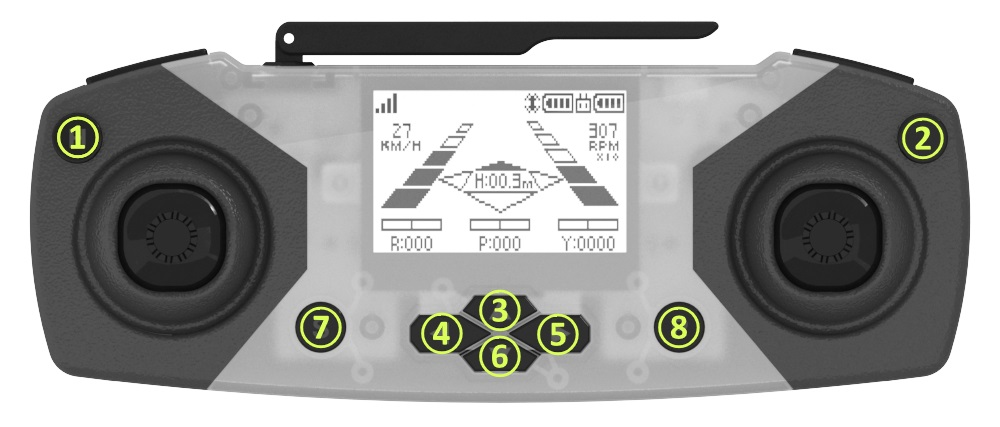
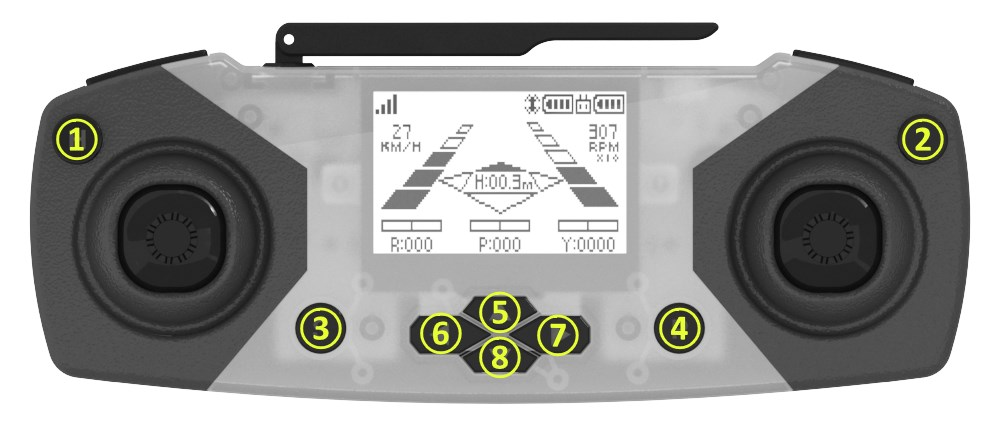
e_drone 사용자 메뉴얼 전면 이미지의 버튼 번호 순서 변경

diff --git a/documents/kr/products/e_drone/manual/user/index.md b/documents/kr/products/e_drone/manual/user/index.md
@@ -87,12 +87,12 @@ E-Drone의 조종기는 크게 ***조종***과 ***설정*** 두 화면으로 구
 |:----:|:--------------------------------------------|:-----------------------------------------|
 | 1    | LCD 백라이트 ON/OFF                         | Return Home                              |
 | 2    | LCD 초기화(화면이 뒤집히는 경우 사용)       | 전원 ON/OFF                              |
-| 3    | Trim Pitch 증가(드론을 앞으로 향하게 함)    | -                                        |
-| 4    | Trim Roll 감소(드론을 왼쪽으로 향하게 함)   | -                                        |
-| 5    | Trim Roll 증가(드론을 오른쪽으로 향하게 함) | -                                        |
-| 6    | Trim Pitch 감소(드론을 뒤로 향하게 함)      | -                                        |
-| 7    | 이전 조종 화면으로 전환                     | 설정 화면으로 이동                       |
-| 8    | 다음 조종 화면으로 전환                     | 페어링(비행 중에는 작동하지 않음)        |
+| 3    | 이전 조종 화면으로 전환                     | 설정 화면으로 이동                       |
+| 4    | 다음 조종 화면으로 전환                     | 페어링(비행 중에는 작동하지 않음)        |
+| 5    | Trim Pitch 증가(드론을 앞으로 향하게 함)    | -                                        |
+| 6    | Trim Roll 감소(드론을 왼쪽으로 향하게 함)   | -                                        |
+| 7    | Trim Roll 증가(드론을 오른쪽으로 향하게 함) | -                                        |
+| 8    | Trim Pitch 감소(드론을 뒤로 향하게 함)      | -                                        |
 | 9    | -                                           | -                                        |
 | 10   | -                                           | -                                        |
 | 11   | -                                           | 이륙 / 착륙                              |
@@ -106,18 +106,18 @@ E-Drone의 조종기는 크게 ***조종***과 ***설정*** 두 화면으로 구
 
 | 번호 | 짧게 눌렀을 때                              | 길게 눌렀을 때                           |
 |:----:|:--------------------------------------------|:-----------------------------------------|
-| 1    | -                                           | -                                        |
+| 1    | LCD 백라이트 ON/OFF                         | -                                        |
 | 2    | LCD 초기화(화면이 뒤집히는 경우 사용)       | 전원 ON/OFF                              |
-| 3    | 메뉴 위로 이동                              | -                                        |
-| 4    | 메뉴 왼쪽으로 이동                          | -                                        |
-| 5    | 메뉴 오른쪽으로 이동                        | -                                        |
-| 6    | 메뉴 아래로 이동                            | -                                        |
-| 7    | -                                           | 조종 화면으로 이동                       |
-| 8    | -                                           | 페어링(비행 중에는 작동하지 않음)        |
+| 3    | -                                           | 조종 화면으로 이동                       |
+| 4    | -                                           | 페어링(비행 중에는 작동하지 않음)        |
+| 5    | 메뉴 위로 이동                              | -                                        |
+| 6    | 메뉴 왼쪽으로 이동                          | -                                        |
+| 7    | 메뉴 오른쪽으로 이동                        | -                                        |
+| 8    | 메뉴 아래로 이동                            | -                                        |
+| 9    | -                                           | -                                        |
 | 10   | -                                           | -                                        |
-| 11   | -                                           | -                                        |
-| 12   | -                                           | -                                        |
-| 12   | 메뉴 선택 또는 메뉴 오른쪽으로 이동         | -                                        |
+| 11   | 메뉴 왼쪽으로 이동                          | -                                        |
+| 12   | 메뉴 오른쪽으로 이동 또는 항목 선택         | -                                        |
 
 <br>
 
